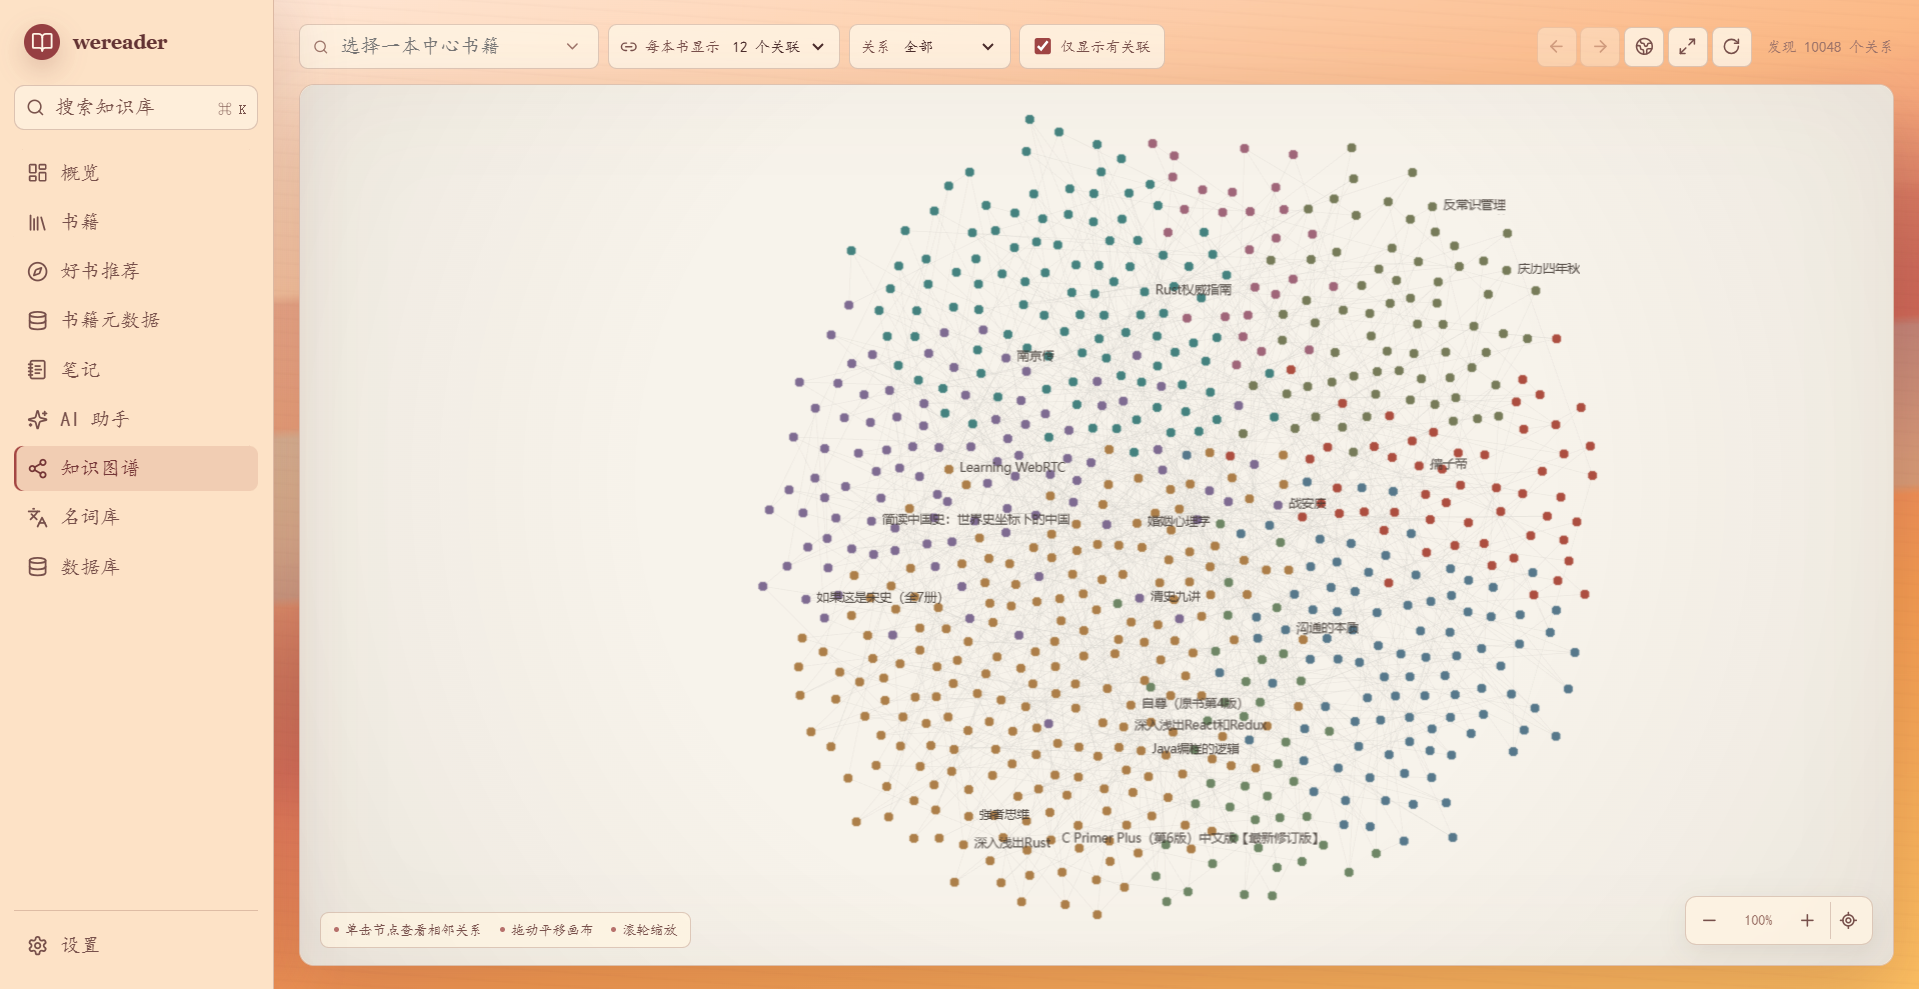
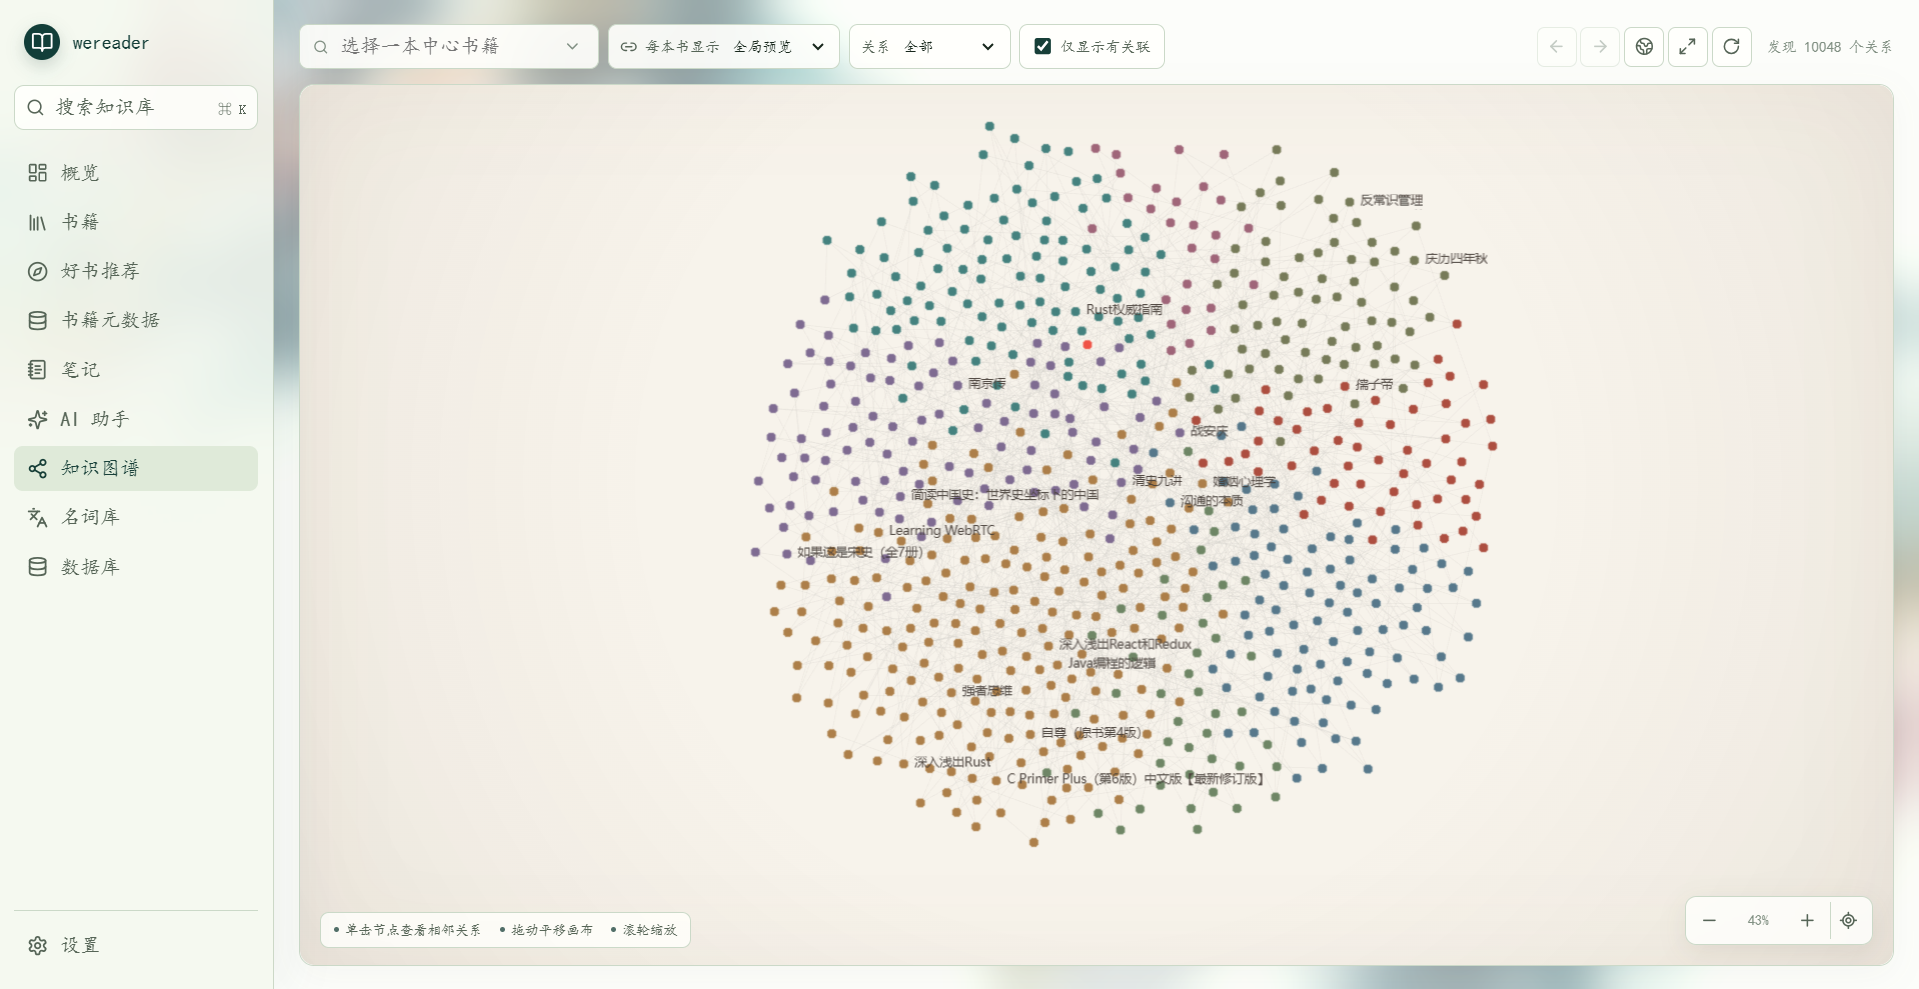
feat: implement panning functionality in KnowledgeGraph3D component and update styles for panning cursor

diff --git a/src/styles/global.scss b/src/styles/global.scss
@@ -10,7 +10,7 @@
 .douban-import{display:grid;grid-template-columns:minmax(260px,1fr) auto auto;gap:16px;align-items:center;margin:-8px 0 20px;padding:14px;border:1px solid var(--border);border-radius:10px;background:var(--surface)}.douban-import strong,.douban-import small{display:block}.douban-import small{margin-top:4px;color:var(--muted);line-height:1.4}.douban-import__limit{color:var(--muted);font-size:12px;white-space:nowrap}
 .metadata-source-actions{display:flex;gap:8px}
 .force-graph-3d{position:absolute;inset:0;overflow:hidden;border-radius:inherit;background:#f7f3eb;transition:right .22s ease}.graph-shell.has-detail .force-graph-3d{right:334px}.force-graph-3d:after{position:absolute;inset:0;pointer-events:none;content:"";background:radial-gradient(circle at 50% 45%,transparent 48%,#6f4d2b0a 78%,#3e281712 100%);box-shadow:inset 0 0 80px #74552f0d}.force-graph-3d canvas{display:block;outline:0}.graph-3d-guide{position:absolute;z-index:2;top:18px;right:18px;display:flex;flex-direction:column;gap:3px;padding:9px 12px;border:1px solid #d9cdbd;border-radius:9px;background:#fffdf9d9;box-shadow:0 6px 20px #59412412;pointer-events:none;backdrop-filter:blur(8px)}.graph-3d-guide strong{color:#49382e;font-size:12px}.graph-3d-guide span{color:#948579;font-size:10px}.graph-3d-tooltip{display:flex;max-width:280px;flex-direction:column;gap:3px;padding:8px 10px;border:1px solid #d7c8b5;border-radius:7px;background:#fffdf5f2;box-shadow:0 7px 24px #281b1250;color:#342720;font-family:var(--app-font,inherit)}.graph-3d-tooltip strong{font-size:12px;line-height:1.45}.graph-3d-tooltip span,.graph-3d-tooltip small{color:#817166;font-size:10px}
-.force-graph-echarts__canvas{position:absolute;inset:0;cursor:grab;touch-action:none;user-select:none}.force-graph-echarts__canvas:active{cursor:grabbing}.force-graph-echarts:after{z-index:1}.force-graph-echarts__canvas>div{border-radius:inherit}
+.force-graph-echarts__canvas{position:absolute;inset:0;cursor:grab;touch-action:none;user-select:none}.force-graph-echarts__canvas:active,.force-graph-echarts__canvas.is-panning{cursor:grabbing}.force-graph-echarts:after{z-index:1}.force-graph-echarts__canvas>div{border-radius:inherit}
 .graph-zoom-controls{position:absolute;z-index:3;right:16px;bottom:16px;display:flex;align-items:center;padding:4px;border:1px solid var(--border);border-radius:9px;background:color-mix(in srgb,var(--surface) 92%,transparent);box-shadow:0 6px 20px #49352416;backdrop-filter:blur(10px)}.graph-zoom-controls button{display:grid;width:30px;height:30px;padding:0;border:0;border-radius:6px;background:transparent;color:var(--secondary);cursor:pointer;place-items:center}.graph-zoom-controls button:hover{background:var(--accent-soft);color:var(--accent)}.graph-zoom-controls span{min-width:48px;color:var(--muted);font-size:11px;text-align:center;font-variant-numeric:tabular-nums}.graph-zoom-controls button:last-child{margin-left:3px;border-left:1px solid var(--border);border-radius:0 6px 6px 0}
 .graph-shell>.force-graph-3d,.graph-shell>.sigma-graph{animation:graph-view-enter .58s cubic-bezier(.22,.8,.3,1)}@keyframes graph-view-enter{from{opacity:0;transform:scale(.94);filter:blur(3px)}to{opacity:1;transform:scale(1);filter:blur(0)}}
 .data-table-wrap{position:relative;width:100%;overflow:hidden;border:1px solid var(--border);border-radius:8px}.data-table-viewport{width:100%;height:100%}.data-table{width:100%;table-layout:fixed;border-collapse:collapse;font-size:12px}.data-table th,.data-table td{padding:12px;border-bottom:1px solid var(--border);vertical-align:middle}.data-table th{background:var(--bg);color:var(--muted);font-size:11px;font-weight:500;white-space:nowrap}.data-table td{overflow:hidden;text-overflow:ellipsis;white-space:nowrap}.data-table tbody tr:last-child td{border-bottom:0}.data-table tbody tr:hover{background:var(--surface-hover)}.data-table-empty{padding:48px 12px;color:var(--muted);text-align:center}.data-table-scrollbar{display:flex;padding:2px;background:transparent;touch-action:none;user-select:none}.data-table-scrollbar[data-orientation=vertical]{width:9px}.data-table-scrollbar[data-orientation=horizontal]{height:9px;flex-direction:column}.data-table-thumb{position:relative;flex:1;border-radius:8px;background:var(--muted);opacity:.55}.data-table-corner{background:var(--surface-hover)}.glossary-term-cell{min-width:0}.glossary-term-cell strong,.glossary-term-cell small{display:block;overflow:hidden;text-overflow:ellipsis;white-space:nowrap}.glossary-term-cell small{margin-top:5px;color:var(--muted);font-weight:400}.glossary-status{display:inline-flex;padding:3px 6px;border-radius:5px;background:var(--accent-soft);color:var(--accent);white-space:nowrap}

diff --git a/src/components/graph/KnowledgeGraph3D.tsx b/src/components/graph/KnowledgeGraph3D.tsx
@@ -33,6 +33,8 @@ export function KnowledgeGraph3D({ nodes, edges, focusId, selectedId, showIsolat
   const chartRef = useRef<echarts.ECharts | undefined>(undefined);
   const [zoom, setZoom] = useState(1);
   const zoomRef = useRef(1);
+  const panRef = useRef<[number, number]>([0, 0]);
+  const dragRef = useRef<{ pointerId: number; x: number; y: number; target: HTMLElement } | null>(null);
   const callbacksRef = useRef({ onNodeClick, onNodeOpen, onEdgeClick });
   callbacksRef.current = { onNodeClick, onNodeOpen, onEdgeClick };
   const data = useMemo(() => {
@@ -272,6 +274,50 @@ export function KnowledgeGraph3D({ nodes, edges, focusId, selectedId, showIsolat
     return () => host.removeEventListener("wheel", handleWheel);
   }, [selectedId]);
 
+  useEffect(() => {
+    const host = hostRef.current;
+    if (!host) return;
+    const start = (event: PointerEvent) => {
+      if (event.button !== 0) return;
+      const target = event.target instanceof HTMLElement ? event.target : host;
+      dragRef.current = { pointerId: event.pointerId, x: event.clientX, y: event.clientY, target };
+      target.setPointerCapture(event.pointerId);
+      host.classList.add("is-panning");
+    };
+    const move = (event: PointerEvent) => {
+      const drag = dragRef.current;
+      const chart = chartRef.current;
+      if (!drag || drag.pointerId !== event.pointerId || !chart) return;
+      const dx = event.clientX - drag.x, dy = event.clientY - drag.y;
+      if (!dx && !dy) return;
+      drag.x = event.clientX; drag.y = event.clientY;
+      event.preventDefault();
+      if (selectedId) {
+        chart.dispatchAction({ type: "graphRoam", seriesIndex: 0, dx, dy });
+      } else {
+        panRef.current = [panRef.current[0] + dx, panRef.current[1] + dy];
+        chart.dispatchAction({ type: "graphGLRoam", seriesIndex: 1, offset: panRef.current });
+      }
+    };
+    const end = (event: PointerEvent) => {
+      if (dragRef.current?.pointerId !== event.pointerId) return;
+      const target = dragRef.current.target;
+      dragRef.current = null;
+      if (target.hasPointerCapture(event.pointerId)) target.releasePointerCapture(event.pointerId);
+      host.classList.remove("is-panning");
+    };
+    host.addEventListener("pointerdown", start);
+    host.addEventListener("pointermove", move);
+    host.addEventListener("pointerup", end);
+    host.addEventListener("pointercancel", end);
+    return () => {
+      host.removeEventListener("pointerdown", start);
+      host.removeEventListener("pointermove", move);
+      host.removeEventListener("pointerup", end);
+      host.removeEventListener("pointercancel", end);
+    };
+  }, [selectedId]);
+
   function changeZoom(nextValue: number) {
     const chart = chartRef.current;
     if (!chart) return;
@@ -286,6 +332,7 @@ export function KnowledgeGraph3D({ nodes, edges, focusId, selectedId, showIsolat
     const chart = chartRef.current;
     if (!chart) return;
     zoomRef.current = 1;
+    panRef.current = [0, 0];
     setZoom(1);
     if (selectedId) chart.setOption({ series: [{ zoom: 1, center: undefined }] } as never);
     else chart.dispatchAction({ type: "graphGLRoam", seriesIndex: 1, zoom: 1, offset: [0, 0] });

diff --git a/src/pages/KnowledgeGraph.tsx b/src/pages/KnowledgeGraph.tsx
@@ -191,7 +191,7 @@ export function KnowledgeGraph() {
       {isActivePage && strength === "all" && !loading && !error && !!viewGraph.nodes.length && <KnowledgeGraph3D
         nodes={viewGraph.nodes} edges={renderedEdges} focusId={focusId} selectedId={selectedId} showIsolated={!connectedOnly}
         fitRequest={fitRequest}
-        onNodeClick={id => { setSelectedId(id); setEdgeId(undefined); }} onNodeOpen={navigateToBook}
+        onNodeClick={navigateToBook} onNodeOpen={navigateToBook}
         onEdgeClick={id => { setEdgeId(id); setSelectedId(undefined); }} />}
       {isActivePage && strength !== "all" && !loading && !error && !!viewGraph.nodes.length && <KnowledgeGraphCanvas
         nodes={viewGraph.nodes} edges={renderedEdges} focusId={focusId} selectedId={selectedId}
